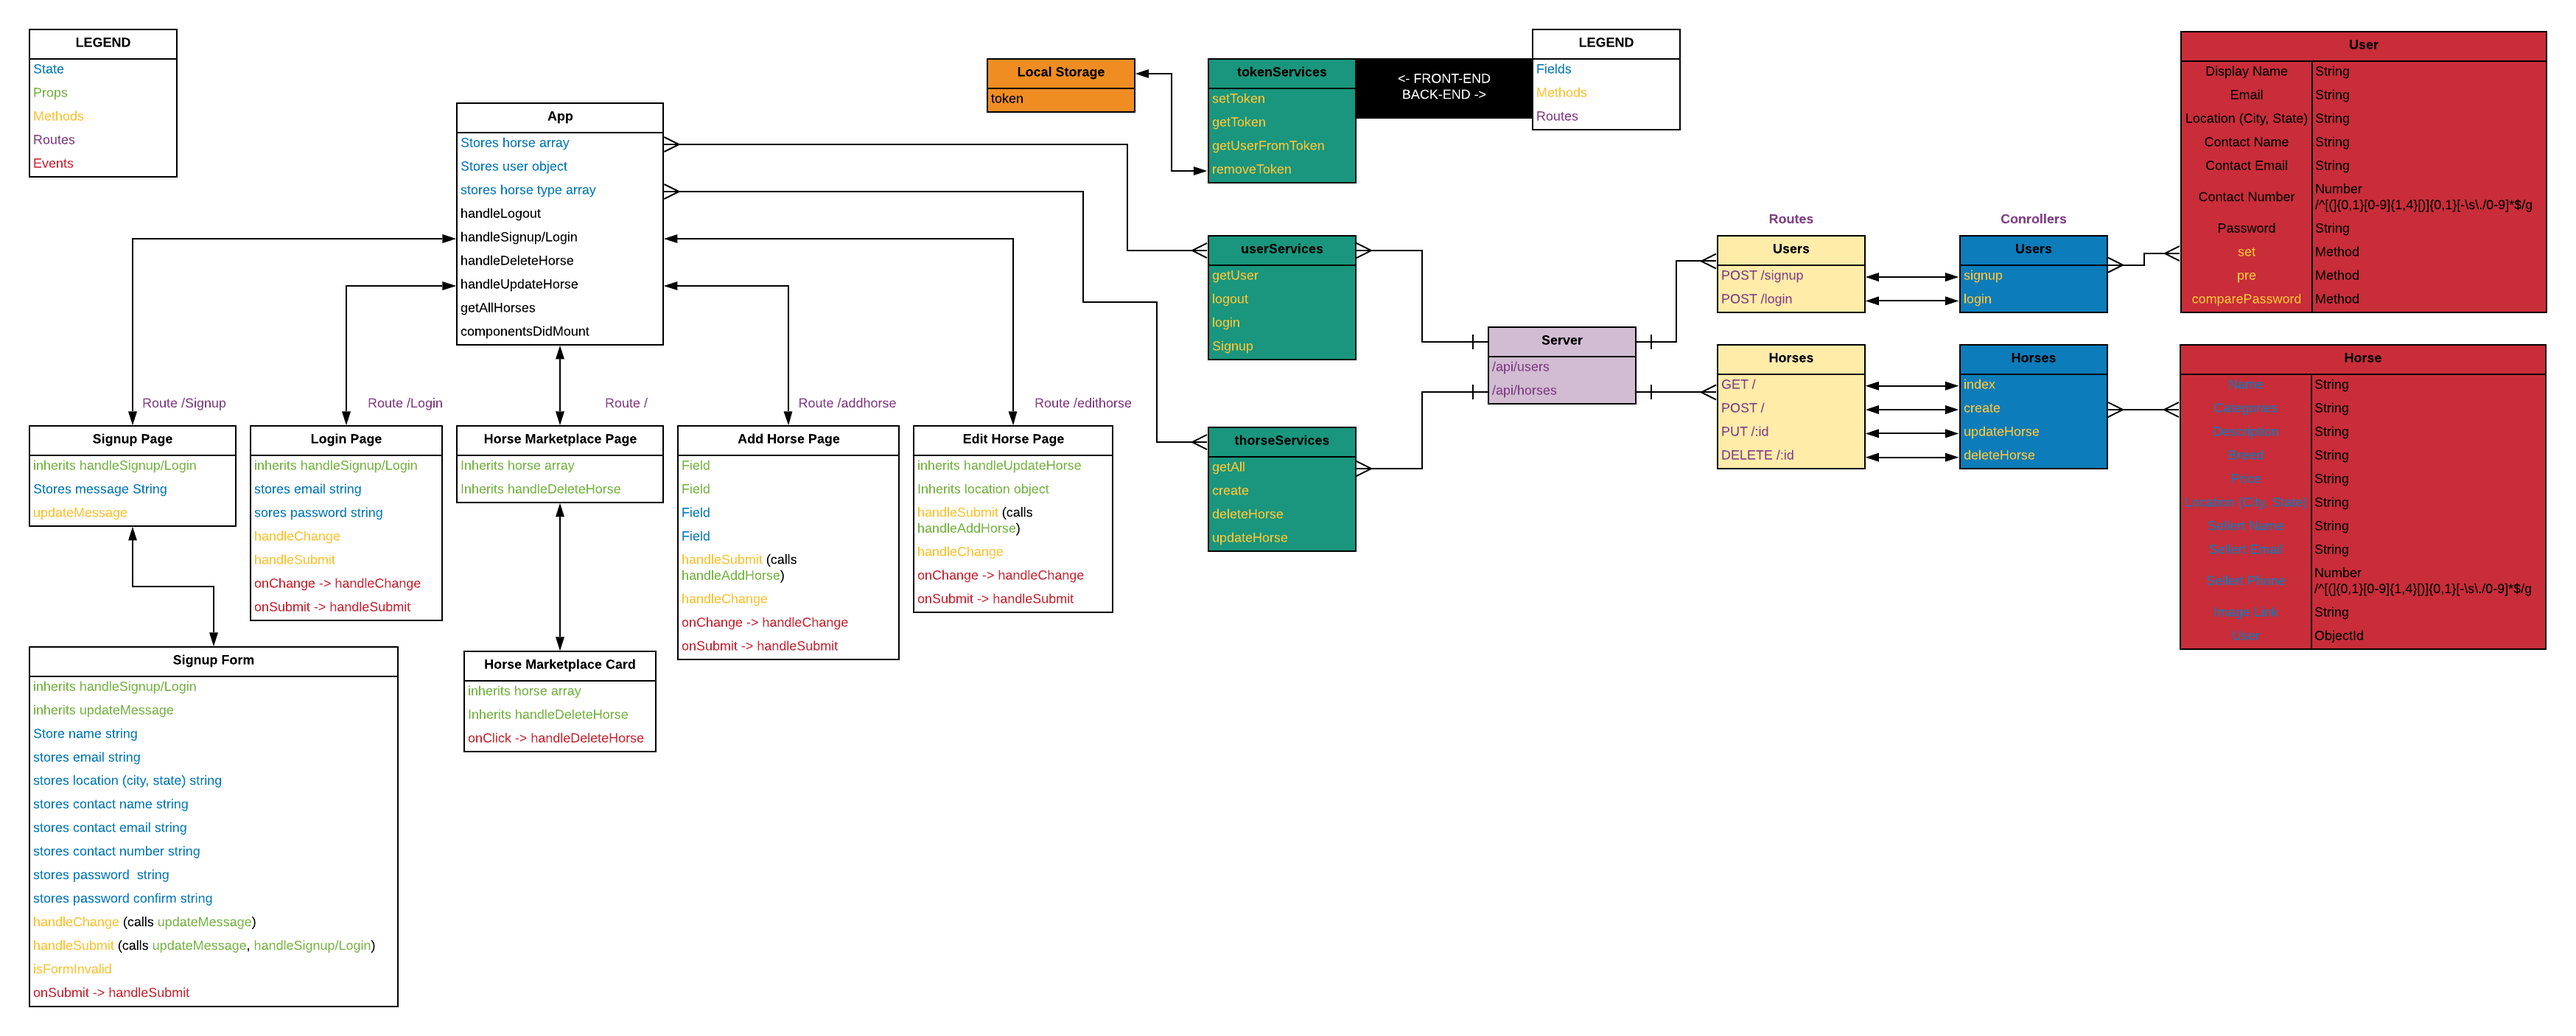
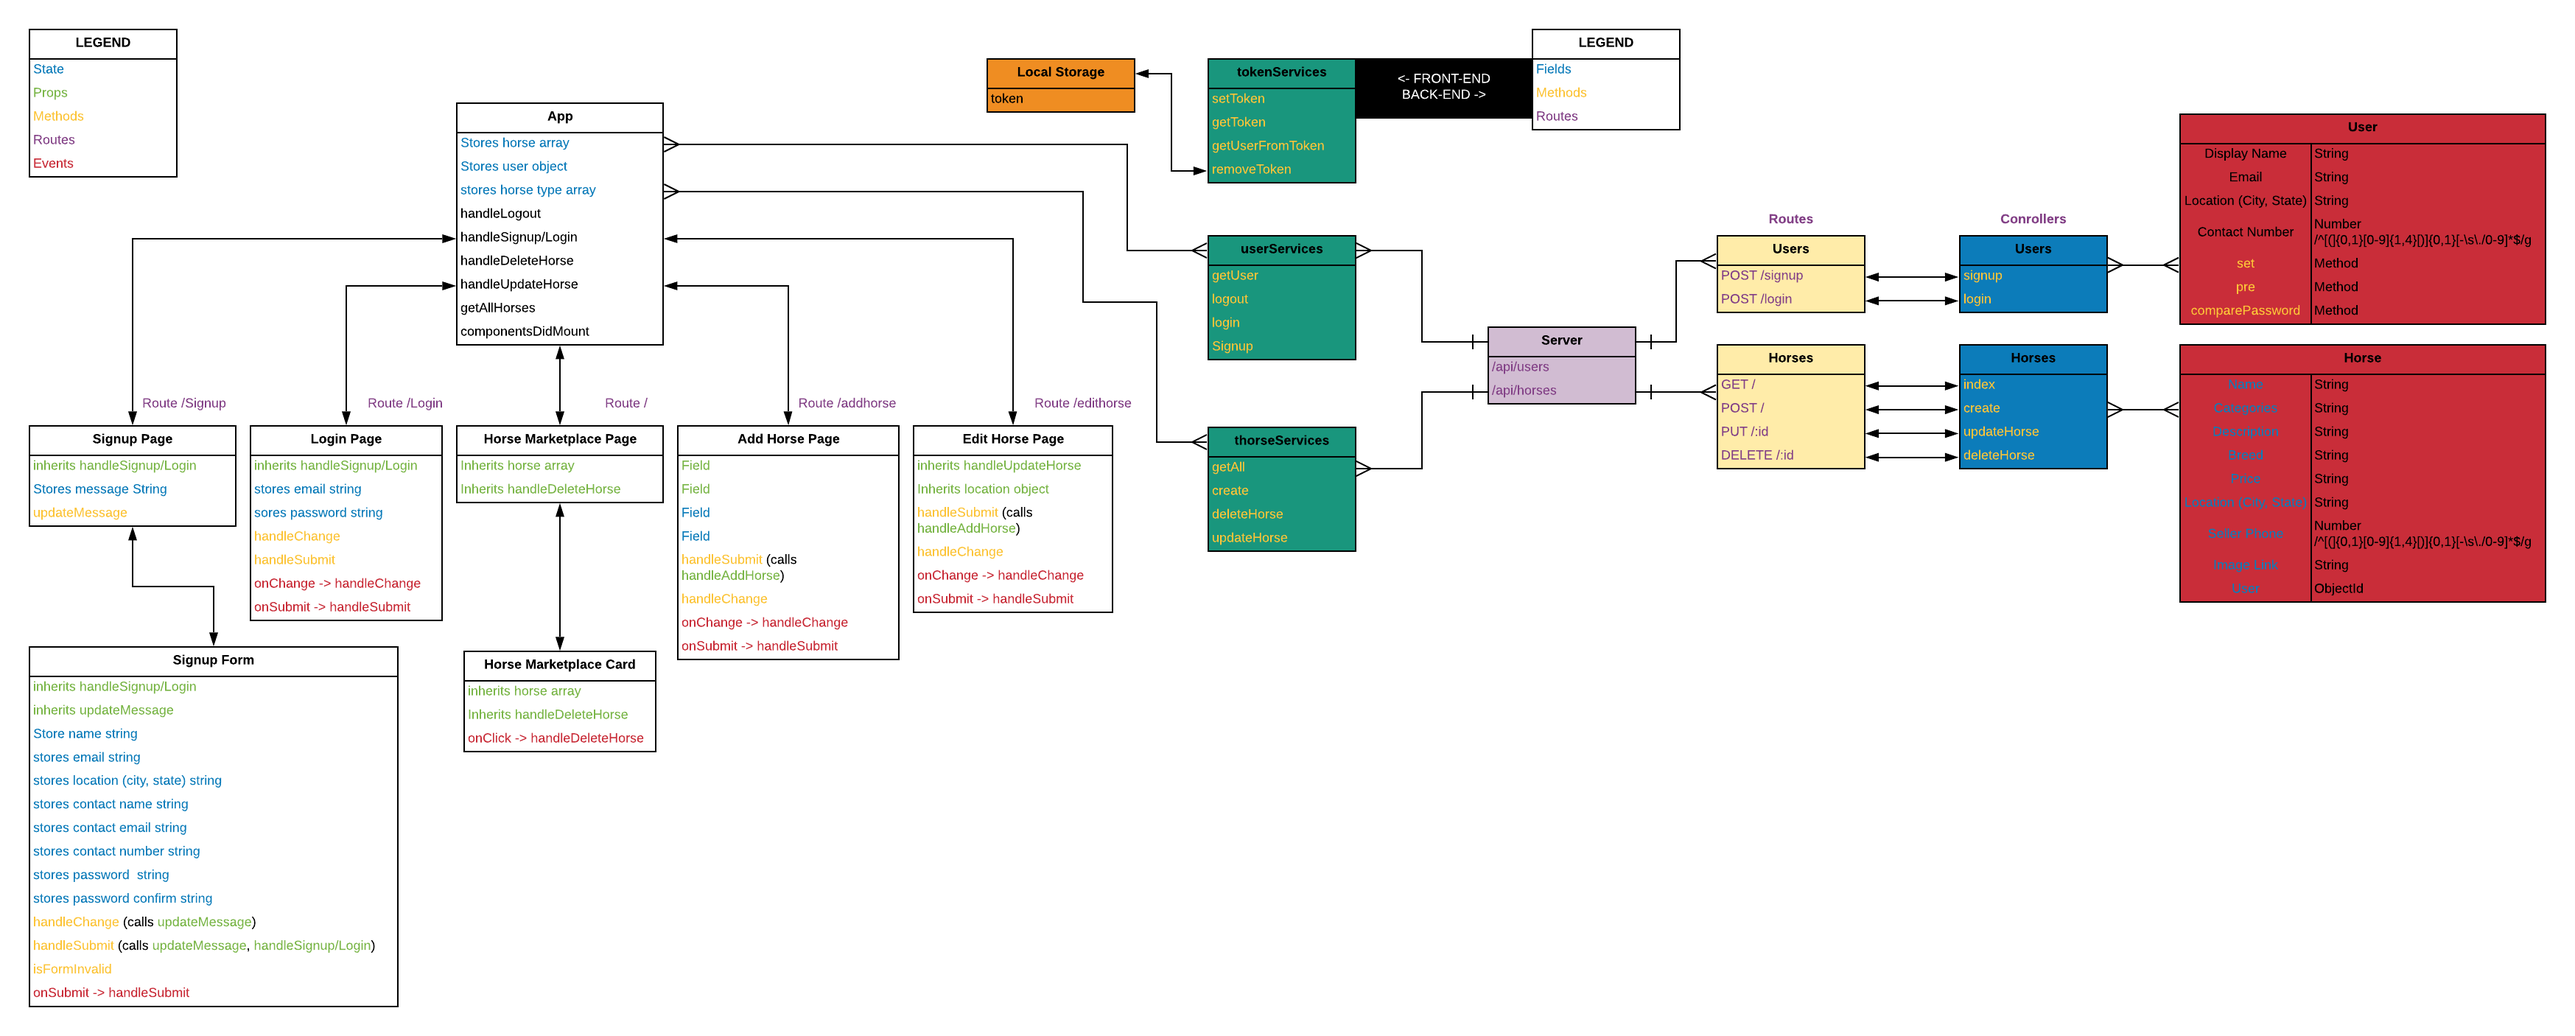
update to horse model, controller, routes, created horse services

diff --git a/src/pages/App/App.js b/src/pages/App/App.js
@@ -8,6 +8,7 @@ import HorseCard from '../../components/HorseCard/HorseCard';
 import Barn from '../../components/BarnImg/BarnImg'
 import Footer from '../../components/Footer/Footer'
 import userService from '../../services/userServices'
+import horsesServices from '../../services/horseServices'
 import SignupPage from '../SignupPage/SignupPage';
 import LoginPage from '../LoginPage/LoginPage';
 
@@ -18,13 +19,14 @@ class App extends Component {
     super();
     this.state = {
       ...this.getInitialState(),
+      horses: [],
       user: userService.getUser()
     };
   }
 
   getInitialState() {
     return {
-      horse: '',
+      horses: '',
       isAvailable: true
     };
   }
@@ -40,6 +42,11 @@ class App extends Component {
   }
 
   /*--- Lifecycle Methods ---*/
+
+  async componentDidMount() {
+    const scores = await horsesServices.index();
+    this.setState({ horses });
+  }
 
   render() {
     return (

diff --git a/src/services/horseServices.js b/src/services/horseServices.js
@@ -1,0 +1,25 @@
+import tokenService from './tokenService';
+
+const BASE_URL = '/api/horses/';
+
+export default {
+  index,
+  create
+};
+
+function index() {
+  return fetch(BASE_URL).then(res => res.json());
+}
+
+function create(horse) {
+  const options = {
+    method: 'POST',
+    headers: {
+      'Content-type': 'application/json',
+      // Add this header - don't forget the space after Bearer
+      'Authorization': 'Bearer ' + tokenService.getToken()
+    },
+    body: JSON.stringify(horse)
+  };
+  return fetch(BASE_URL, options).then(res => res.json());
+}

diff --git a/models/horse.js b/models/horse.js
@@ -3,9 +3,14 @@ var Schema = mongoose.Schema;
 
 var horseSchema = new Schema({
  name: {type: String, required: true},
- band: {type: String, required: true},
- year: {type: String},
- recordType: String
+ age: {type: Number, required: true},
+ Catergories: {type: String, required: true},
+ breed: {type: String},
+ price: {type: Number, required: true},
+ location: {type: String},
+ Contact: {type: String, required: true},
+ image: {type: String},
+ user: {type: OnjectId},
 },{
  timestamps: true
 });

diff --git a/routes/api/horses.js b/routes/api/horses.js
@@ -2,6 +2,15 @@ var express = require('express');
 var router = express.Router();
 var horsesCtrl = require('../../controllers/api/horses');
 
-router.get('/', horsesCtrl.index);
+router.get('/marketplace', horsesCtrl.index);
+router.post('/listhorse', checkAuth, horsesCtrl.create);
+
+
+/*--- Helper Functions ---*/
+function checkAuth(req, res, next) {
+    if (req.user) return next();
+    return res.status(401).json({ msg: 'Not Authorization' });
+}
+
 
 module.exports = router;

diff --git a/controllers/api/horses.js b/controllers/api/horses.js
@@ -1,5 +1,18 @@
 const Horse = require('../../models/horse');
 
 module.exports = {
-   index
+   index,
+   create
+}
+
+function index(req, res) {
+   Horse.find({}, function (err, horses) {
+       res.status(200).json(horses)
+   })
+}
+
+function create(req, res) {
+   Horse.create(req.body, function (err, horse) {
+       res.status(201).json(horse)
+   })
 }

diff --git a/server.js b/server.js
@@ -23,6 +23,7 @@ app.use(require('./config/auth'));
 
  /*--- Spot for api routes ---*/
  app.use('/api/users', require('./routes/api/users'));
+ app.use('/api/horses', require('./routes/api/horses'));
 
 /*--- Spot for catch all route ---*/
 
